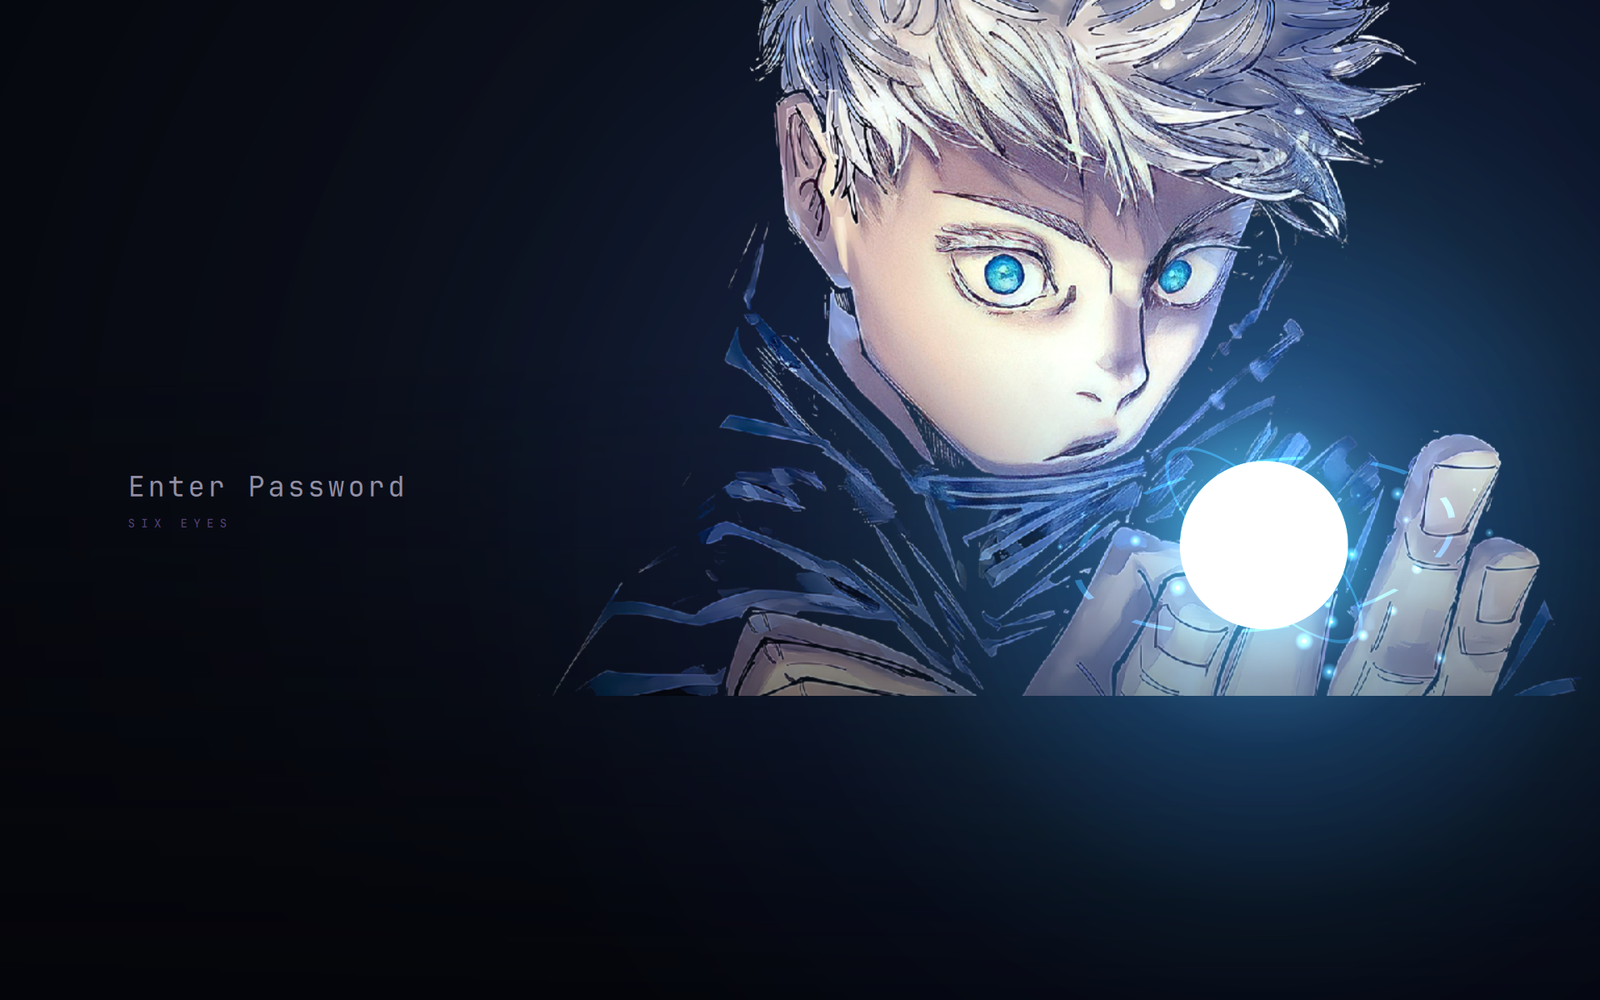
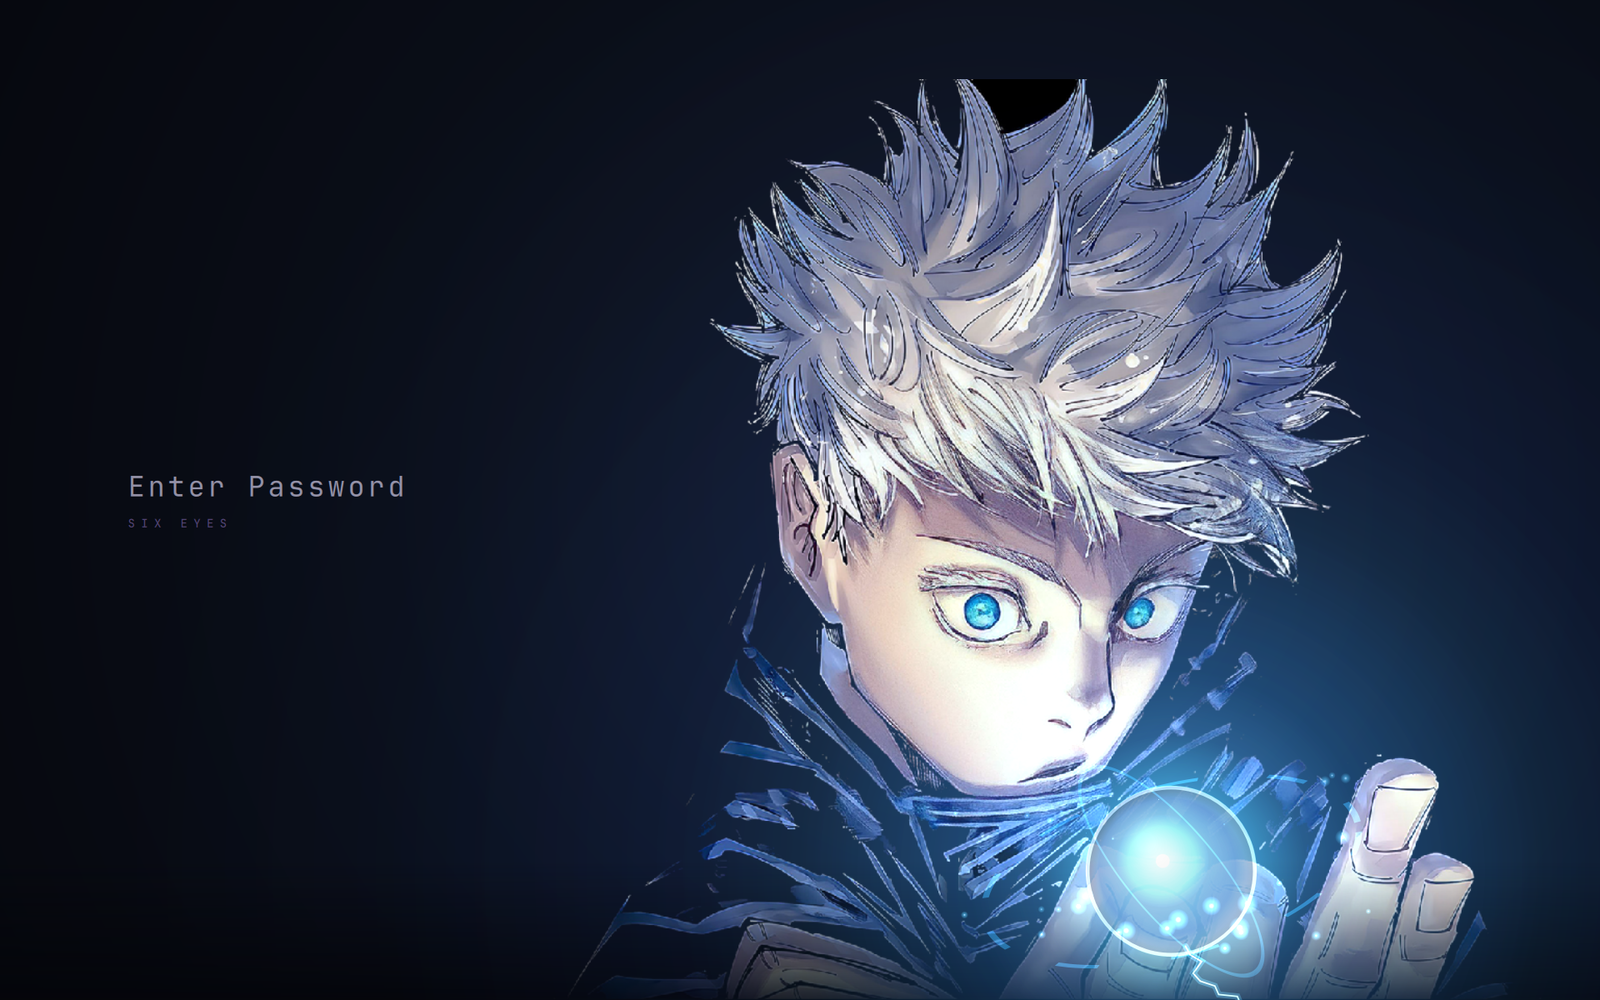
fix: pin the artwork to the frame, keep one pose per lock
The artwork used to hang off the orb: the sphere was placed at a fixed point
and the image positioned so its hand landed there. A close crop like Six Eyes
then ran off the top of the screen and ended on a visible horizontal cut
mid-frame. It is now the other way round — the image is pinned bottom-right
and the orb is placed on the hand within it, so every pose fills the same
right-hand column and no cutout edge is ever visible.

A failed attempt no longer redraws the pose. Swapping the character mid-lock
read as a glitch rather than a reaction; the sphere already answers a wrong
password by turning red, recoiling and throwing a shockwave.

Drops the Cursed Technique pose.

Claude-Session: https://claude.ai/code/session_01WtwkM5mNprunEefS7SnggB

diff --git a/lock-plugin/qml/LockCanvas.qml b/lock-plugin/qml/LockCanvas.qml
@@ -20,6 +20,7 @@ Canvas {
     property real poseAnchorY: 0.5
     property real poseFade: 0.72      // dissolve the cutout's bottom edge
     property real poseAspect: 1       // width / height of the artwork
+    property real poseHeight: 1       // drawn height, fraction of the screen
     property color coreColor: "#ffffff"
     property color innerColor: "#e879ff"
     property color outerColor: "#7c3aed"
@@ -179,8 +180,16 @@ Canvas {
         var base = Math.min(w, h) * 0.088
         var breathe = 1 + Math.sin(_breathe) * 0.035 + Math.sin(_breathe * 2.3) * 0.015
         var R = base * (1 + chg * 0.28) * breathe
-        var cx = w * 0.79 + _recoil * base * 0.55 + (Math.random() - 0.5) * _shake * 8
-        var cy = h * 0.545 + (Math.random() - 0.5) * _shake * 8
+
+        // The artwork is pinned to the bottom-right, so no cutout ever ends on
+        // a visible horizontal edge; the orb is then placed on the hand within
+        // that frame, rather than the artwork being hung off the orb.
+        var imgH = h * poseHeight
+        var imgW = imgH * poseAspect
+        var imgX = w - imgW - w * 0.03
+        var imgY = h - imgH
+        var cx = imgX + imgW * poseAnchorX + _recoil * base * 0.55 + (Math.random() - 0.5) * _shake * 8
+        var cy = imgY + imgH * poseAnchorY + (Math.random() - 0.5) * _shake * 8
 
         ctx.reset()
         ctx.clearRect(0, 0, w, h)
@@ -202,25 +211,20 @@ Canvas {
         ctx.fillRect(0, 0, w, h)
         ctx.globalCompositeOperation = "source-over"
 
-        // --- the artwork, hand centred on the orb
+        // --- the artwork
         if (poseSource != "" && isImageLoaded(poseSource)) {
-            var drawH = h * ease
-            var drawW = drawH * poseAspect
             var dy = (1 - ease) * 26
             ctx.globalAlpha = ease
-            ctx.drawImage(poseSource, cx - poseAnchorX * drawW, cy - poseAnchorY * drawH + dy, drawW, drawH)
+            ctx.drawImage(poseSource, imgX, imgY + dy, imgW, imgH)
             ctx.globalAlpha = 1
 
-            // Dissolve the artwork into the bottom of the frame so its cutout
-            // edge never reads as a hard horizontal line.
+            // Sink the last of the artwork into the floor of the frame.
             var y0 = h * poseFade
-            if (y0 < h) {
-                var fade = ctx.createLinearGradient(0, y0, 0, h)
-                fade.addColorStop(0, "rgba(4,5,10,0)")
-                fade.addColorStop(1, "rgba(4,5,10,1)")
-                ctx.fillStyle = fade
-                ctx.fillRect(0, y0, w, h - y0)
-            }
+            var fade = ctx.createLinearGradient(0, y0, 0, h)
+            fade.addColorStop(0, "rgba(4,5,10,0)")
+            fade.addColorStop(1, "rgba(4,5,10,0.92)")
+            ctx.fillStyle = fade
+            ctx.fillRect(0, y0, w, h - y0)
         }
 
         // --- orb light spilling onto the scene

diff --git a/lock-plugin/qml/GojoTheme.js b/lock-plugin/qml/GojoTheme.js
@@ -1,6 +1,6 @@
 .pragma library
 
-// The three poses ship together and one is drawn at random each time the screen
+// The poses ship together and one is drawn at random each time the screen
 // locks — the point is that you do not know which Gojo is waiting.
 //
 // Each pose carries its own energy palette. These deliberately do not come from
@@ -23,19 +23,10 @@ var poses = [
         fade: 0.74,
         // Width / height of the artwork. Canvas cannot ask an image for its
         // size, so each pose states its own.
-        aspect: 990 / 1200
-    },
-    {
-        source: "assets/gojo-cursed-technique.png",
-        name: "Cursed Technique",
-        core: "#fff0ff",
-        inner: "#ff41e0",
-        outer: "#a21caf",
-        halo: "#e879f9",
-        anchorX: 0.46,
-        anchorY: 0.52,
-        fade: 0.80,
-        aspect: 819 / 1200
+        aspect: 990 / 1200,
+        // Drawn height as a fraction of the screen. A wide crop needs to be
+        // smaller than a tall one to occupy the same right-hand column.
+        height: 1.0
     },
     {
         source: "assets/gojo-six-eyes.png",
@@ -44,10 +35,11 @@ var poses = [
         inner: "#6ee7ff",
         outer: "#2563eb",
         halo: "#38bdf8",
-        anchorX: 0.67,
-        anchorY: 0.85,
-        fade: 0.66,
-        aspect: 1307 / 1200
+        anchorX: 0.63,
+        anchorY: 0.79,
+        fade: 0.86,
+        aspect: 1307 / 1200,
+        height: 0.92
     }
 ];
 

diff --git a/lock-plugin/qml/LockView.qml b/lock-plugin/qml/LockView.qml
@@ -51,9 +51,6 @@ Item {
         if (inputEnabled) Qt.callLater(forcePasswordFocus)
     }
 
-    // A new attempt draws a different Gojo.
-    onFailedAttemptsChanged: if (failedAttempts > 0) pose = Gojo.randomPose()
-
     LockCanvas {
         id: scene
         anchors.fill: parent
@@ -63,6 +60,7 @@ Item {
         poseAnchorY: root.pose.anchorY
         poseFade: root.pose.fade
         poseAspect: root.pose.aspect
+        poseHeight: root.pose.height
 
         coreColor: root.pose.core
         innerColor: root.pose.inner

diff --git a/README.md b/README.md
@@ -5,9 +5,8 @@ Gojo Satoru's cursed energy sphere: the ring you type into is the orb in his
 hand, it charges as you type, and it turns red and recoils when the password is
 wrong.
 
-One of three poses is drawn at random each time the screen locks, and a wrong
-password draws a different one. Each pose brings its own energy colour —
-Hollow Purple, Cursed Technique, Six Eyes.
+One of two poses is drawn at random each time the screen locks, each with its
+own energy colour — Hollow Purple and Six Eyes.
 
 ![Hollow Purple](preview.png)
 ![Six Eyes](preview-six-eyes.png)
@@ -78,7 +77,7 @@ lock-plugin/
     LockView.qml       the view Service.qml drives: text, dots, the input
     LockCanvas.qml     everything drawn: background, artwork, the sphere
     GojoTheme.js       poses, their colours, where the orb sits on each
-    assets/            the three cutouts and two wisp textures
+    assets/            the cutouts and two wisp textures
   install.sh  uninstall.sh
 omatheme.toml          payload manifest, for the theme-bound path
 ```
